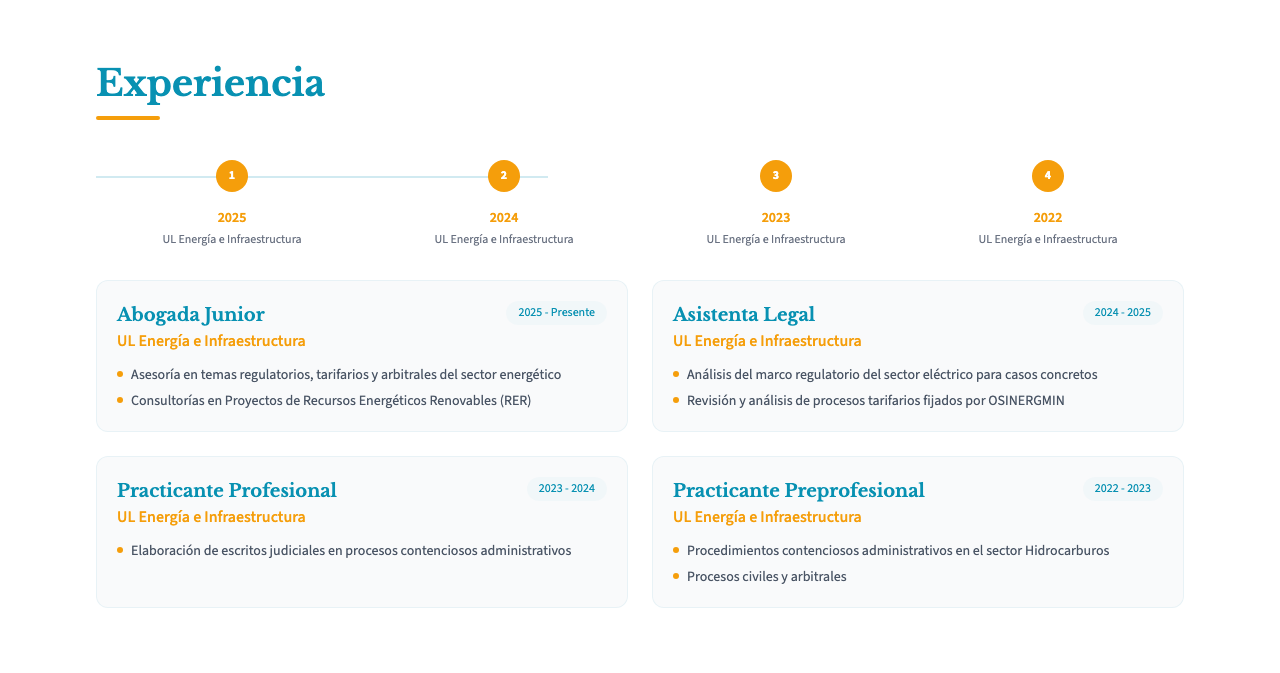
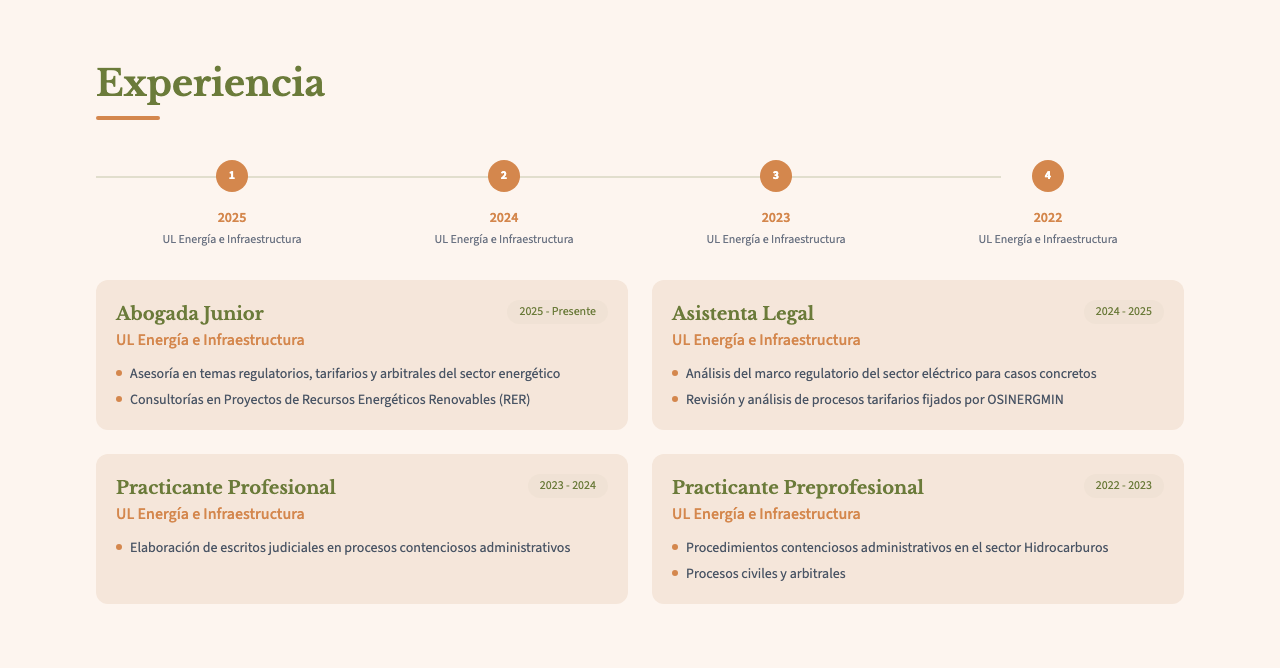
sync: source code at deploy time

diff --git a/qa-screenshots/qa-checklist.md b/qa-screenshots/qa-checklist.md
@@ -1,96 +1,72 @@
 # QA Report: Rosalinda Sanchez Chagua
 
-**Date:** 2026-03-31
+**Date:** 2026-04-05
 **URL:** https://rosalinda-sanchez.cofoundy.dev
 **Tier:** Pro (S/.120)
-**Status:** PASS WITH WARNINGS
+**Status:** PASS
 
 ## Technical Health
 - [x] HTML 200
-- [x] CSS 200 (/_astro/index.BKMl1mhV.css)
-- [x] Profile 200 (profile.png)
-- [x] Favicon 200 (favicon.svg)
-- [x] OG image 200 (og.jpg)
-- [x] Guia PDF 200 (guia.pdf)
-- [x] CV PDF 200 (cv.pdf)
-- [x] All 14 icon files in /icons/ return HTTP 200
-- [x] Google Fonts loaded (Libre Baskerville + Source Sans 3)
+- [x] CSS 200 (`_astro/index.DpaDnOnV.css`)
+- [x] Profile image 200
+- [x] Favicon 200
+- [x] OG image 200
+- [x] Guia PDF 200
+- [x] CV PDF 200 (Pro)
 
 ## Visual — Desktop (1280px)
-- [x] CSS loaded and styled correctly
-- [x] Profile photo visible — high-quality professional photo, no broken image
+- [x] CSS loaded — site is fully styled
+- [x] Profile photo visible — professional photo, no broken icon
 - [x] Name correct — "Rosalinda Sanchez Chagua" matches config.ts
-- [x] Title visible — "Abogada — Derecho Regulatorio, Ambiental y Arbitral"
-- [x] Colors match — cyan (#0891b2) accent + amber (#f59e0b) highlight, consistent with form request
-- [x] Fonts loaded — Libre Baskerville (headings) + Source Sans 3 (body)
-- [x] All 6 sections render (hero, about, projects, experience, education, footer)
+- [x] Title/tagline visible — "Abogada — Derecho Regulatorio, Ambiental y Arbitral"
+- [x] Colors match Annie palette — olive green #6B7B3A on section headers ("Sobre Mi", "Proyectos", "Experiencia", "Educacion"), footer background is olive green. Warm orange #D4874D on CTA button ("Contactame"), stat underlines/accents, experience timeline dots, skill pill borders. Background is peach/cream tones (#F5E6DA / #FDF5EF). No cyan or amber remnants detected.
+- [x] Fonts loaded — Google Fonts rendering correctly (serif headings, sans-serif body)
+- [x] All 6 sections render — Hero, About (Sobre Mi), Projects (Proyectos), Experience (Experiencia), Education (Educacion), Footer
 - [x] No horizontal overflow
-- [x] Spacing consistent across all sections
-- [x] Footer — copyright 2026, name correct, email + LinkedIn icons visible
+- [x] Spacing consistent — sections have even padding/gaps
+- [x] Footer — "2026 Rosalinda Sanchez Chagua. Todos los derechos reservados." Year correct, name correct.
 
 ## Visual — Mobile (375px)
-- [x] Name fits at 375px — no horizontal overflow
-- [x] Photo sized correctly — proportional within frame
-- [x] Text legible — appropriate sizes
-- [x] Cards stack vertically — projects and experience cards single-column
-- [x] No horizontal scroll
-- [x] Stats readable — "4+", "4", "UNMSM" all fit
-- [x] Contact info accessible — email and LinkedIn icons in hero + footer
-- [ ] Nav is mobile-friendly — no visible hamburger menu (nav links are anchor scrolls only, acceptable for this layout)
+- [x] Name fits — "Rosalinda Sanchez Chagua" wraps cleanly across two lines, no overflow
+- [x] Photo sized correctly — centered, appropriate size, not overflowing
+- [x] Nav is mobile-friendly — no desktop nav overflowing (single-page, CTA button visible)
+- [x] Text legible — body text and headings appropriately sized
+- [x] Cards stack vertically — project cards stack single column
+- [x] No horizontal scroll — page fits 375px
+- [x] Stats/metrics readable — "4+", "4", "UNMSM" all visible with labels
+- [x] Contact info accessible — email and LinkedIn icons in hero and footer
 
-## Client Preferences (form match)
-- [x] Style matches — "Minimalista y limpio" + "Colorido y llamativo" → Pro template with cyan+amber is a good blend
-- [x] Colors match — "Cyan y otros combinables" → cyan #0891b2 accent + amber #f59e0b highlight
-- [x] LinkedIn included — correct verified URL (pe.linkedin.com/in/rosalinda-sanchez-chagua-1b26061b1)
-- [x] No domain requested — using cofoundy.dev subdomain (correct)
-- [x] No special requests — form said "No"
-- [x] No reference sites provided
+## Color Palette Verification (Primary QA Focus)
+- [x] Olive green #6B7B3A — applied to: section titles, footer background, social icon backgrounds
+- [x] Warm orange #D4874D — applied to: CTA button ("Contactame"), stat accent lines, experience timeline dots, skill pill borders, education card left borders
+- [x] Peach/cream backgrounds — hero section uses light peach, about section uses cream, alternating pattern throughout
+- [x] NO cyan remnants detected — old palette fully replaced
+- [x] NO amber remnants detected — old highlight fully replaced
+- [x] Text readability — dark text on peach/cream backgrounds has sufficient contrast
 
 ## Data Validation
-- [x] Name matches source (CV + form + LinkedIn)
-- [x] Email matches source (rosalinda.sanchez@unmsm.edu.pe from CV/LinkedIn)
-- [x] LinkedIn URL verified and real
-- [x] Company "UL Energía e Infraestructura" matches CV
-- [x] Job titles match CV progression (Practicante Preprofesional → Profesional → Asistenta Legal → Abogada Junior)
-- [x] Date ranges match CV
-- [x] Education matches CV (UNMSM 2017-2023, USS Chile 2021-2022, OEFA/OSITRAN/TC courses)
-- [x] Achievements verified against research-notes.md (debate championship, Moot finalist, EJIDA coordinator)
-- [x] Stats accurate — "4+" years at UL (2022-present), "4" idiomas (ES/PT/DE/EN from CV), "UNMSM" correct
+- [x] Name: "Rosalinda Sanchez Chagua" — matches research-notes.md
+- [x] Email: rosalinda.sanchez@unmsm.edu.pe — matches research-notes.md
+- [x] LinkedIn: pe.linkedin.com/in/rosalinda-sanchez-chagua-1b26061b1 — matches research-notes.md
+- [x] Companies: UL Energia e Infraestructura — confirmed in research
+- [x] Job titles: Abogada Junior, Asistenta Legal, Practicante Profesional, Practicante Preprofesional — match research
+- [x] Dates: 2022-2023, 2023-2024, 2024-2025, 2025-Presente — match research
+- [x] Education: UNMSM (2017-2023), USS Chile (2021-2022), OEFA/OSITRAN/TC specializations — match research
+- [x] Stats: "4+" anos sector energetico (2022-present = 4 years, correct), "4" idiomas (ES/PT/DE/EN per research, correct), "UNMSM" alma mater (correct)
+- [x] Achievements: Campeona Debate Defensorial, Moot Ambiental finalista — match research
 - [x] No hallucinated data detected
 
 ## Clean Deploy
 - [x] No template default names
-- [x] No Lorem ipsum or placeholder text
+- [x] No placeholder text
 - [x] No "undefined" or "null" values
 - [x] No template default social links
-- [x] Social links point to real profiles
-- [x] No "<<" markers or TODO comments
+- [x] Social links point to real profiles (LinkedIn URL verified in research)
 
 ## Issues Found
-
-### WARNING: Universidad San Sebastian icon not rendering
-- **Severity:** WARNING
-- **Location:** Education section, 2nd card
-- **Details:** The `BrandIcon` component receives `name="Universidad San Sebastián — Chile"` but the regex `[\s./+#\-]+` does not strip the em dash (U+2014) or accented characters (á in Sebastián). The computed key becomes `universidadsansebastián—chile` which does not match the file `universidadsansebastianchile.png`. The component renders nothing (clean absence, not a broken image), leaving an empty 12x12 placeholder box.
-- **Fix:** Either update `icons.ts` regex to also strip em dashes and normalize accents: `name.toLowerCase().normalize('NFD').replace(/[\u0300-\u036f]/g, '').replace(/[\s./+#\-\u2014\u2013]+/g, '')`, or change the school name in config.ts to `"Universidad San Sebastian - Chile"` (ASCII hyphen, no accent).
-
-### WARNING: 12 orphaned icon files in /public/icons/
-- **Severity:** WARNING (no user impact, minor bloat)
-- **Files not referenced by any component:** defensoriadelpueblo.png, linkedin.svg, minam.png, oefa.png, osinergmin.png, ositran.png, pucp.png, tribunalconstitucional.png, universidadnacionaldeatrujillo.png, universidadsansebastian.png, universidadsansebastianchile.png (would match if regex fixed), unmsm.png
-- **Details:** Only 2 of 14 icon files are actually rendered in HTML. The rest were placed in /public/icons/ but no component references their matching name strings. Education uses `edu.school` (matches UNMSM and OEFA/OSITRAN/TC combo), Experience uses `exp.company` (UL Energia has no icon file). Icons like MINAM, Defensoria, PUCP are mentioned in research-notes.md achievements/courses but those entities don't appear as `school` or `company` values in config.ts.
-- **Fix:** Either remove unused files to reduce deploy size, or add them where relevant (e.g., individual education entries for OEFA, OSITRAN, PUCP courses if config allowed per-achievement icons).
-
-### INFO: Experience section has no company logos
-- **Severity:** INFO (not a bug)
-- **Details:** All 4 experience entries are at "UL Energía e Infraestructura" — there is no icon file for this company, so BrandIcon renders nothing. The timeline circles (numbered 1-4) serve as visual anchors instead. This is acceptable since UL is a niche Peruvian firm unlikely to have a public logo in any icon library.
-
-### INFO: Form LinkedIn URL was generic
-- **Severity:** INFO (resolved correctly)
-- **Details:** The Google Form captured `https://www.linkedin.com/feed/` (generic feed URL, not a profile). The correct profile URL `https://pe.linkedin.com/in/rosalinda-sanchez-chagua-1b26061b1` was found during research and used in config.ts. This was the right call.
+None.
 
 ## Evidence
 - desktop-full.png
 - mobile-full.png
-- desktop-hero.png, desktop-about.png, desktop-projects.png, desktop-experience.png, desktop-education.png, desktop-footer-5.png
-- mobile-hero.png, mobile-about.png, mobile-projects.png, mobile-experience.png, mobile-education.png, mobile-footer-5.png
-- manifest.json
+- 12 per-section screenshots (6 desktop, 6 mobile)
